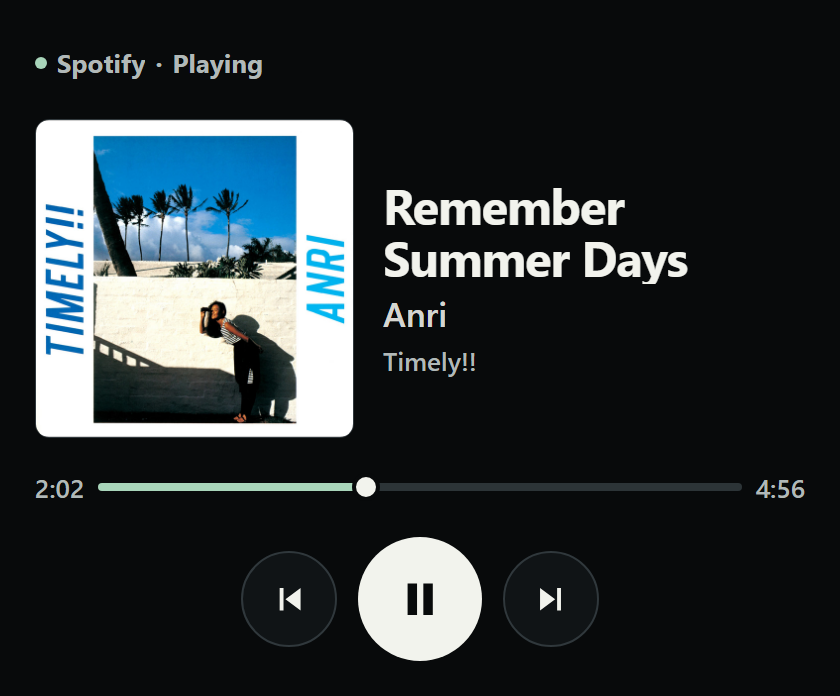
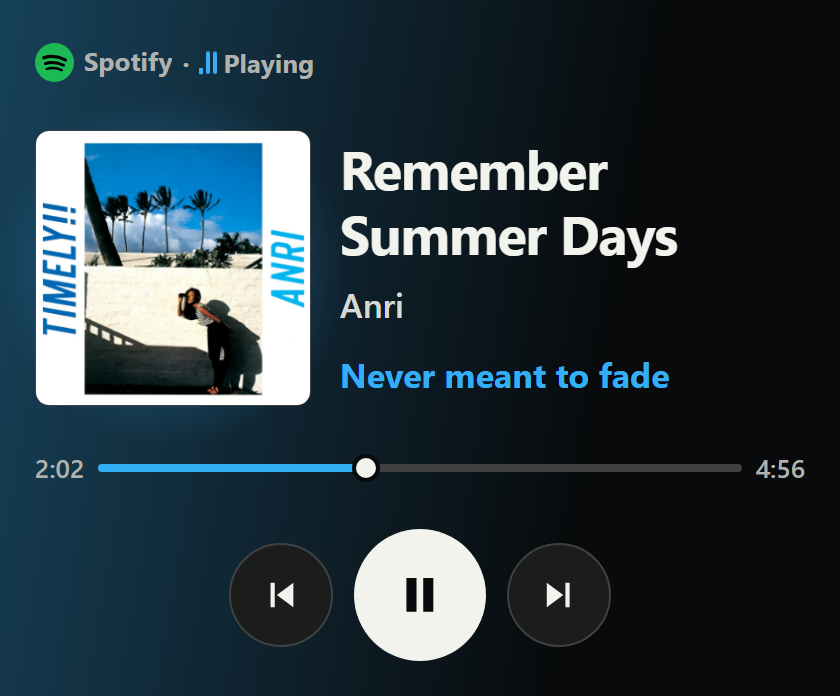
docs: new Now Playing screenshots (840 x 696 and 2536 x 696)
Rendered with the real widget at the exact format size; the track and covers are real, the lyrics, queue and visualiser bars are invented and the caption says so.

diff --git a/README.md b/README.md
@@ -47,6 +47,8 @@ Screenshots: usage figures, the sensor reading, countdowns and habits are demo v
 | <img src="docs/screenshots/focus-timer.png" width="400" alt="Focus Timer, 840 × 344" /><br>Focus Timer, 840 × 344 | <img src="docs/screenshots/countdowns.png" width="400" alt="Countdowns, 840 × 344" /><br>Countdowns, 840 × 344 |
 | <img src="docs/screenshots/habit-rings.png" width="400" alt="Habit Rings, 840 × 344" /><br>Habit Rings, 840 × 344 | <img src="docs/screenshots/iss-horizon.png" width="400" alt="ISS Horizon, 1688 × 696" /><br>ISS Horizon, 1688 × 696 |
 
+<img src="docs/screenshots/now-playing-xl.png" width="820" alt="Now Playing, 2536 × 696" /><br>Now Playing, 2536 × 696: player mark, cover colours, synced lyrics (tap a line to seek), shuffle and repeat, visualiser (tap the area for `Up next`, Spotify only), volume and sleep timer. Everything except the player mark and the cover colours needs iCUE Edge Companion 0.1.4 or later. The lyrics, the bars and the queue in this capture are invented.
+
 <img src="docs/screenshots/spotify-lyrics.png" width="820" alt="Spotify with synced lyrics, 1688 × 696" />
 
 Spotify (advanced option), 1688 × 696, with synced lyrics and `Up next` (tap a track to skip to it; needs iCUE Edge Companion 0.1.4 or later). The track and its lyrics are invented for the demo; real lyrics come from LRCLIB at run time.
